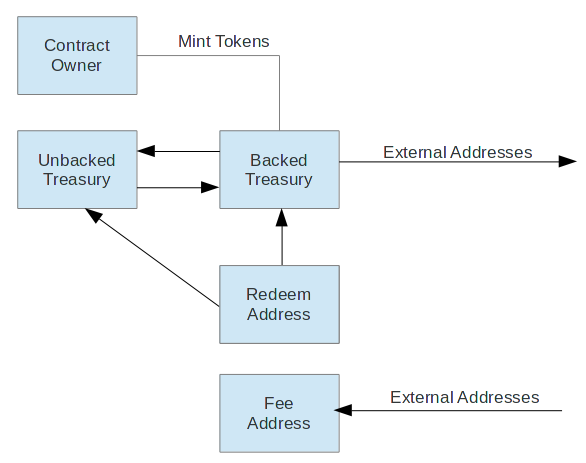
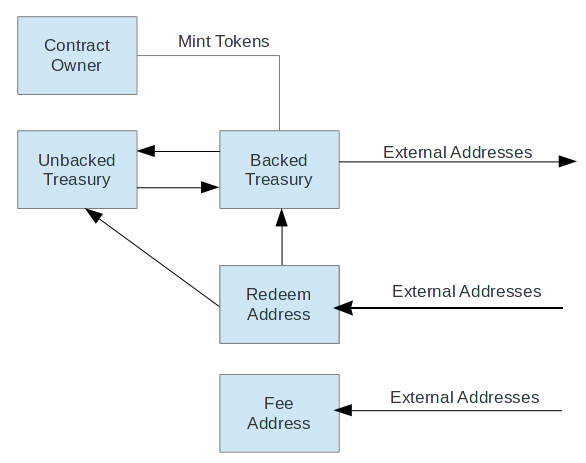
Updates to documentation and links to contract

Changed region(s): [[0.6451, 0.6048, 0.9215, 0.6652], [0.5836, 0.635, 0.6143, 0.6955]]

diff --git a/TOKEN_OVERVIEW.md b/TOKEN_OVERVIEW.md
@@ -1,8 +1,18 @@
 # Token Description
 
-The CACHE Gold Token (CGT) is an ERC-20 compatible token in which 1 token represents 1 gram of pure physical gold. All gold tokens minted are backed by physical gold held in reserves at participating fully audited vaults and may be redeemed for physical gold.
+The [CACHE Gold Token (CGT)](https://cache.gold) is an ERC-20 compatible token in which 1 token represents 1 gram of pure gold. All gold tokens minted are backed by unencumbered gold held in reserves at participating fully audited vaults and may be redeemed for physical delivery or can be sold for fiat currency. Gold parcel tracking is performed through [GramChain](https://www.gramchain.net/) and all available bars currently locked and available for redemption can be view in the [GramChain Explorer](https://explorer.gramchain.net/).
 
 While this token inherits the ERC-20 interface, there are extra properties of the token that are non-standard. In particular, the token has the ability to charge a storage fee that accrues over time as the token is held and a transfer fee that is paid when tokens are transferred from one address to another. These fees are paid in the native token itself ("in kind"), and are separate from the transaction fees paid in ETH when transacting on the Ethereum network. These fees are collected automatically whenever token holders transact.
+
+### Quick Overview
+
+* Symbol: `CGT`
+* Name: `CACHE Gold`
+* Decimals: `8`
+* Mainnet Contract Address: [0xF5238462E7235c7B62811567E63Dd17d12C2EAA0](https://etherscan.io/token/0xF5238462E7235c7B62811567E63Dd17d12C2EAA0)
+* Ropsten Contract Address: [0xa3872B300E97179E414D442b8Eef1862f641ED0e](https://ropsten.etherscan.io/token/0xa3872B300E97179E414D442b8Eef1862f641ED0e)
+* Suggested gasLimit for `transfer`: 200,000
+* Typical gas used for `trasfer`: 75,000 - 150,000
 
 ### Fee Overview
 
@@ -10,14 +20,14 @@ Please read the [Fees Guide](./FEES.md) for a detailed overview of the storage a
 
 ### Internal Addresses
 
-There are 6 addresses associated with the contract that have the special status as CACHE "internal" addresses. These addresses are not subject to storage or transfer fees.
+There are 6 addresses associated with the CACHE Gold contract that have the special status as CACHE internal addresses. These addresses are not subject to storage or transfer fees.
 
-1.  Owner Address : The address owning the CACHE Gold Token contract and the only account able to mint tokens and perform other administrative functions. This is a MultiSig address so that tokens can only be minted pending group approval.
-2.  Backed Treasury Address : The backed treasury is where all tokens are minted to and where tokens enter circulation. For tokens to be minted, an equivalent amount of gold must to be locked and unencumbered in a participating audited vault account, and the Locked Gold Oracle must be updated with this amount. The Backed Treasury is also a MultiSig address so transfers to external addresses cannot occur without group approval.
-3.  Unbacked Treasury Address : The unbacked treasury is where tokens exit circulation. When tokens are redeemed for physical gold bars, the tokens will be moved to this address.
-4.  Fee Address : The address where storage and transfer fees for external accounts are collected. This is also a MultiSig address so no single party has the ability transfer collected fees.
-5.  Storage Fee Enforcer : This address is able to force paying storage fees or inactive fees on inactive accounts.
-6.  Redeem Address: The address tokens must be sent to when redeeming tokens for physical gold. CACHE will use a KYC process to whitelist accounts that send to this address and monitor deposits for redemption of physical gold bars.
+1. [CACHE Owner](https://etherscan.io/address/0x3AB9c31148789570f51180a3eF7107E16c4B234c) : A Multi-Sig address owning the CACHE Gold Token contract and the only account able to mint tokens and perform other administrative functions, such as changing the transfer fee. This address is not meant to hold CACHE tokens.
+2.  [Backed Treasury](https://etherscan.io/address/0x6522B05FE48d274f14559E0391BE3675E6A1AC91) : A Multi-Sig address where all tokens are minted and enter circulation. For tokens to be minted, an equivalent amount of gold must to be locked and unencumbered in a participating audited vault accounts, and the [Locked Gold Oracle](https://etherscan.io/address/0x5b7820E62778C7317403D892f6501DD816F82730) must be updated with this amount.
+3.  [Unbacked Treasury](https://etherscan.io/address/0xD4033ea2eC53A26d6295f6f375D5C6afBe788660) : Address where tokens exit circulation. When tokens are redeemed for physical gold bars or unlocked from a vault, an equivalent amount of tokens will be moved to this address.
+4.  [Fee Address](https://etherscan.io/address/0x7ea9b52e9f8673f3e22b4eec2c4c7a7e2d1b6636) : A Multi-Sig address where storage and transfer fees for external accounts are collected.
+5.  [Storage Fee Enforcer](https://etherscan.io/address/0x8dCfA60A1fB2429a7AFc0266523F1BF7FBF42a1A) : An address authorized to force paying owed fees on inactive accounts. This address is not meant to hold CACHE tokens.
+6.  [Redeem Address](https://etherscan.io/address/0xc8Bf2dBDe1d69d174fd40581f5177F684fA26eDa): The address tokens must be sent to when redeeming tokens for physical gold. CACHE uses a KYC process to whitelist accounts that send to this address and monitors deposits for redemption.
 
 #### Transfer Restrictions
 
@@ -25,21 +35,21 @@ For security reasons, some addresses are restricted from sending to external add
 
 ![Addresses](./img/addresses.png)
 
-The Redeem Address can only transfer to the Backed or Unbacked Treasury. This insures that if the private key is hacked, the hacker can only move the tokens to other addresses controlled by CACHE.
+* The Redeem Address can only transfer to the Backed or Unbacked Treasury. This insures that if the private key is compromised CACHE tokens can only be moved to other Multi-Sig addresses controlled by CACHE.
 
-The Unbacked Treasury can only receive tokens from the Backed Treasury or the Redeem Address. When tokens enter the Unbacked Treasury the `totalCirculation()` decreases, therefore we want to ensure only addresses controlled by CACHE can transfer there. The Unbacked Treasury can only transfer tokens to the Backed Treasury, and it is only allowed when the Locked Gold Oracle has sufficient supply to allow these tokens to re-enter circulation.
+* The Unbacked Treasury can only receive tokens from the Backed Treasury or the Redeem Address. When tokens enter the Unbacked Treasury the `totalCirculation()` decreases, therefore we want to ensure only addresses controlled by CACHE can transfer there. The Unbacked Treasury can only transfer tokens to the Backed Treasury, and it is only allowed when the Locked Gold Oracle has sufficient supply to allow these tokens to re-enter circulation.
 
 ### Minting and Locked Gold Oracle
 
-The contract keeps track of the the real world supply of locked gold via the Locked Gold Oracle contract. It's only function is to keep track of the amount of gold currently locked in participating vaults, and the CACHE contract can check this value when adding new tokens to circulation to ensure it does not exceed the limit. 
+The contract keeps track of the the real world supply of locked gold via the [Locked Gold Oracle](https://etherscan.io/address/0x5b7820E62778C7317403D892f6501DD816F82730) contract. It's only function is to keep track of the amount of gold currently locked in participating vaults as tracked by [GramChain](https://www.gramchain.net/), and the CACHE contract can check this value when adding new tokens to circulation to ensure it does not exceed the limit. 
 
 The number of tokens in circulation at any given time is:
 ```
-The total supply - balance of unbacked treasury
+Total Supply - Unbacked Treasury
 ```
-and it represented by the contract function `totalCirculation()`
+and it represented by the contract function [totalCirculation()](https://github.com/cache-token/cache-contract/blob/master/contracts/CacheGold.sol#L645-L647)
 
-When more gold is locked in the vault and the Locked Gold Oracle value is increased, the contract owner will call `addBackedTokens()` function to increase the circulating supply by a given amount. The function will first move tokens from the Unbacked Treasury balance to the Backed Treasury, and then mint any additional tokens if the Unbacked balance in insufficient to cover the total amount of tokens to add. 
+When more gold is locked in participating vaults and the Locked Gold Oracle value is increased, the contract owner can propose the [addBackedTokens()](https://github.com/cache-token/cache-contract/blob/master/contracts/CacheGold.sol#L268) function to increase the circulating supply by a given amount. The function will first move tokens from the Unbacked Treasury balance to the Backed Treasury, and then mint any additional tokens if the Unbacked balance in insufficient to cover the total amount of tokens to add. 
 
 Similarly, if we want to reduce the circulating supply, tokens must be moved to the Unbacked Treasury (which is restricted from transferring tokens to external addresses), and then the Locked Gold Oracle can be reduced by an equivalent amount.
 

diff --git a/FEES.md b/FEES.md
@@ -10,7 +10,7 @@ The storage fee can be paid in three ways:
 
 1.  Transfering tokens to another address.
 2.  Transfering any amount of tokens to same address (i.e. the sender and receiver address are identical).
-3.  Making a transaction to call the contract's [payStorageFee()](https://github.com/cache-token/cache-contract/blob/master/contracts/CacheGold.sol#L304) function.
+3.  Making a transaction to call the contract's [payStorageFee()](https://github.com/cache-token/cache-contract/blob/master/contracts/CacheGold.sol#L307) function.
 
 When sending tokens to another address via the ERC-20 `transfer()` function, any accrued storage fees will automatically be collected. **NOTE:** If the receiving address has a storage fee balance due, the storage fee will automatically be deducted from this address as well (both sender and receiver pay). In this way, storage fees are automatically collected whenever a token holder transacts. For most cases, token holders do not have to worry about paying their fees, it will happen automatically whenever they send or receive CACHE Gold Tokens.
 
@@ -37,27 +37,46 @@ function calcStorageFee(balance, days_passed) {
 ```
 
 #### Storage Fee Grace Period
-The contract can set a configurable grace period before storage fees begin to accrue on an account. The current grace period is avaliable via the contract function `storageFeeGracePeriodDays()`. The grace period is stored per address, so that if the global grace period changes while in effect for an address, it's grace period can be retroactively honored. The grace period should only be valid once per address. That is, if an account's grace period has expired, receiving more tokens on the address will not restart the grace period.
+The contract can set a configurable grace period before storage fees begin to accrue on an account. The current grace period is avaliable via the contract function [storageFeeGracePeriodDays()](https://github.com/cache-token/cache-contract/blob/master/contracts/CacheGold.sol#L442). The grace period is stored per address, so that if the global grace period changes while in effect for an address, it's grace period can be retroactively honored. The grace period should only be valid once per address. That is, if an account's grace period has expired, receiving more tokens on the address will not restart the grace period.
 
 #### Force Collecting Fees
 If it has been more than 365 days since storage fees were last paid on a particular address, the contract owner has the option to force collecting accrued storage fees on these inactive accounts.
 
 #### Inactive Fee
-The contract also implements an inactive fee. If an address has not interacted with the contract (originated a transaction to the contract) for 3 or more years, the account may be flagged as "inactive". When it is marked inactive, the owed storage fees are deducted and the balance after deducting storage fees is taken as a snapshot. A yearly inactive fee of 50 basis points (0.5%) of the snapshot balance or 1 token, whichever is greater, is set on the account. 
+The contract also implements an inactive fee. If an address has not interacted with the contract (originated a transaction to the contract) for 3 or more years, the account may be flagged as "inactive". When it is marked inactive, the owed storage fees are deducted and the balance after deducting storage fees is taken as a snapshot. A yearly inactive fee of 50 basis points (0.5%) of the snapshot balance _or_ 1 token, _whichever is greater_, is set on the account. 
 
 For example, if an account has been inactive for 3 years, and has a balance of 1000 tokens, without ever having paid storage fees.
+
+It would owe
 ```
-It would owe 1000 * 0.0025 * 3 = 7.5 tokens in storage fees.
-After this is deducted the remaining balance at 3 years is: 1000 - 7.5 = 992.5 which becomes the snapshot balance
-The yearly inactive fee on 992.5 tokens = 992.5 * 0.005 = 4.9625 tokens
+1000 * 0.0025 * 3 = 7.5
+```
+tokens in storage fees.
+
+After this is deducted the remaining balance at 3 years is: 
+```
+1000 - 7.5 = 992.5
+```
+which becomes the snapshot balance.
+
+The yearly inactive fee on 992.5 tokens is
+```
+992.5 * 0.005 = 4.9625 tokens
 ```
 
-Similarly, if the account has been inactive for 3 years, and only had a balance of 5 tokens.
+Similarly, if the account has been inactive for 3 years, and only had a balance of 5 tokens. It would owe...
 ```
-It would owe 5 * 0.0025 * 3 = 0.0375 tokens in storage fees.
-After this is deducted the remaining balance at 3 years is: 5 - 0.0375 = 4.9625, which becomes the snapshot balance
-The yearly inactive fee on a snapshot balance of 4.9625 tokens is 1 token per year, as 1 token > 50 basis points on 4.9625 tokens.
+5 * 0.0025 * 3 = 0.0375
 ```
+tokens in storage fees.
+
+After this is deducted the remaining balance at 3 years is...
+```
+5 - 0.0375 = 4.9625
+```
+which becomes the snapshot balance
+
+The yearly inactive fee on a snapshot balance of `4.9625` tokens is `1 token` per year, as `1 token > 50 basis points on 4.9625 tokens`.
 
 The contract owner has the ability to force collection of these inactive fees on a prorated basis at any point in time on inactive accounts.
 
@@ -83,7 +102,7 @@ Note that transferring tokens to the same address incurs no transfer fee. This i
 ## Important Note On Balance Representation
 
 ### Balance Decay
-The CACHE contract is unique in that it will show the user balance `balanceOf()` not as it is currently stored in the contract storage, but the balance taking into account owed fees. Token balances appear to decay over time, even if the accrued fees have not yet been collected. This is a deliberate design choice to allow compatibility with existing wallets so that choosing to "Send Entire Balance" or "Maximum" as shown by `balanceOf()`, will not fail due to insufficient balance after fees. The contract implements an additional function `balanceOfNoFees()`, which is the typical ERC-20 implementation that shows the contract storage value of the current balance, without taking owed fees into consideration.
+The CACHE contract is unique in that it will show the user balance [balanceOf()](https://github.com/cache-token/cache-contract/blob/master/contracts/CacheGold.sol#L490-L492) not as it is currently stored in the contract storage, but the balance taking into account owed fees. Token balances appear to decay over time, even if the accrued fees have not yet been collected. This is a deliberate design choice to allow compatibility with existing wallets so that choosing to "Send Entire Balance" or "Maximum" as shown by `balanceOf()`, will not fail due to insufficient balance after fees. The contract implements an additional function [balanceOfNoFees()](https://github.com/cache-token/cache-contract/blob/master/contracts/CacheGold.sol#L501-L503), which is the typical ERC-20 implementation that shows the contract storage value of the current balance, without taking owed fees into consideration.
 
 ### Transfer Fee Included
 The transfer fee also adds another modification to the shown balance. For our design, we desire for transactions to not deduct the transfer fee from the amount sent, while also desiring for the 'Send Entire Balance' on existing wallets to still work. In order to acheive this goal, the `balanceOf` functions shows the maximum amount that can be sent, taking into account the transfer fee. For instance if a user, Alice, received 10 tokens, has no storage fees due, and the transfer fee is 10 basis points, the maximum she could send is:
@@ -92,8 +111,10 @@ The transfer fee also adds another modification to the shown balance. For our de
 ```
 Because sending 9.99000999 incurs a fee of 0.00999001, and 
 ```
-9.99000999 + 0.00999001 = 10, the amount received
+9.99000999 + 0.00999001 = 10
 ```
+the amount received.
+
 So `balanceOf()` will show `9.99000999` instead of `10.00000000` and `balanceOfNoFees()` would show the expected `10.00000000` (the amount received).
 
 In this sense, the balance shown is already 'paying for the next hop' in transfer fees. If Alice then sent `9.99000999` tokens to Bob, a `Transfer` event would be emitted would show the amount sent as `9.99000999`. If Bob then checked his `balanceOf()`, it would show:

diff --git a/INTEGRATION_GUIDE.md b/INTEGRATION_GUIDE.md
@@ -17,15 +17,15 @@ Please fully read the [Fees Guide](./FEES.md) to fully understand the nature of 
 
 ## Handling Transfer Fees
 
-Each transfer of CACHE tokens incurs a transfer fee of 10 basis points (0.10%), which is separate from the amount being sent. That is, if a user is holding 10 CGT and sends 5 CGT to the exchange, the exchange will receive 5 CGT and 5 * 0.001 = 0.005 GCT will be send to the CACHE fee collection address, with a total of 5.005 tokens deducted from the user's wallet.
+Each transfer of CACHE tokens incurs a transfer fee of 10 basis points (0.10%), which is separate from the amount being sent. That is, if a user is holding 10 CGT and sends 5 CGT to the exchange, the exchange will receive 5 CGT and 5 * 0.001 = 0.005 GCT will be sent to the CACHE fee collection address, with a total of 5.005 tokens deducted from the user's wallet.
 
 If the exchange then wants to transfers these 5 tokens to another address, like cold storage or a liquidity pool, the maximum amount available to send is:
 
 ```
 5 / 1.001 = 4.99500500
-
+```
 because
-
+```
 4.99500500 + (4.99500500 * 0.0001) [transfer fee] = 5 tokens
 ```
 
@@ -44,7 +44,7 @@ Similarly, the exchange can expect to incur a fee of 0.1% on amounts withdrawn t
 
 ### Note on Transfer Fee Changes
 
-While the default transfer fee is 10 basis points, CACHE has the ability to modify the transfer fee to anything between 0 and 10 basis points (whole numbers only). The current trasfer fee is readable via the [transferFeeBasisPoints()](https://github.com/cache-token/cache-contract/blob/master/contracts/CacheGold.sol#L565) contract function. 
+While the default transfer fee is 10 basis points, CACHE has the ability to modify the transfer fee to anything between 0 and 10 basis points (whole numbers only). The current trasfer fee is readable via the [transferFeeBasisPoints()](https://github.com/cache-token/cache-contract/blob/master/contracts/CacheGold.sol#L578) contract function. 
 
 In the event that the transfer fee is lowered in the future (which would be publicly announced in advance), the exchange may want to also lower any fees passed onto the users.
 
@@ -62,13 +62,13 @@ The `balanceOf()` amount will appear to decay over time for each day the token i
 balance * (1 / 365.0) * 0.0025 = balance * 0.000006849 in fees per day
 ```
 
-The contract also exposes the public function [storageFee()](https://github.com/cache-token/cache-contract/blob/master/contracts/CacheGold.sol#L781) to calculate this directly from the contract.
+The contract also exposes the public function [storageFee()](https://github.com/cache-token/cache-contract/blob/master/contracts/CacheGold.sol#L818) to calculate this directly from the contract.
 
 ### Grace Period
 
-CACHE has the ability to set a global grace period for storage fees. That is, a time period before storage fees begin accruing after an address first receives tokens. This is exposed via the public contract function [storageFeeGracePeriodDays()](https://github.com/cache-token/cache-contract/blob/master/contracts/CacheGold.sol#L558)
+CACHE has the ability to set a global grace period for storage fees. That is, a time period before storage fees begin accruing after an address first receives tokens. This is exposed via the public contract function [storageFeeGracePeriodDays()](https://github.com/cache-token/cache-contract/blob/master/contracts/CacheGold.sol#L571)
 
-If a grace period is in effect, an exchange may chose to delay transferring a user deposit to cold storage until the grace period expires.
+If a grace period is in effect, an exchange can chose to delay transferring a user deposit to cold storage up to the grace period.
 
 ### Suggested Implementation
 
@@ -162,12 +162,12 @@ All three methods will update the timestamp for the account's last activity, and
 
 The contract exposes several functions to be able to pull detailed information about owed fees, addresses activity, days since storage fees have been paid, etc. 
 
-* [balanceOf(address owner) view returns (uint256)](https://github.com/cache-token/cache-contract/blob/master/contracts/CacheGold.sol#L477) : Returns the current balance on the account including all accrued fees. This is synonamous with the "the maximum amount an account could send to another address".
-* [balanceOfNoFees(address owner) view returns (uint256)](https://github.com/cache-token/cache-contract/blob/master/contracts/CacheGold.sol#L488) : Returns the balance stored in contract storage, not accounting for any accrued fees.
-* [daysSincePaidStorageFee(address account) view returns(uint)](https://github.com/cache-token/cache-contract/blob/master/contracts/CacheGold.sol#L613) : Will return how many days since an address has last paid storage fees.
-* [daysSinceActivity(address account) view returns(uint)](https://github.com/cache-token/cache-contract/blob/master/contracts/CacheGold.sol#L626) : Will return how many days since the address last originated a transaction to the contract.
-* [calcOwedFees(address account) view returns(uint256)](https://github.com/cache-token/cache-contract/blob/master/contracts/CacheGold.sol#L638) : Will return the current fees owed on the address.
-* [calcTransferFee(address account, uint256 value) view returns(uint256)](https://github.com/cache-token/cache-contract/blob/master/contracts/CacheGold.sol#L763) : Will return the expected transfer fee on `account` sending `value` tokens.
-* [storageFee(uint256 balance, uint daysSinceStoragePaid) pure returns(uint256)](https://github.com/cache-token/cache-contract/blob/master/contracts/CacheGold.sol#L781) : Will return the expected storage fee on `balance` for `daysSinceStoragePaid` days
-* [storageFeeGracePeriodDays() view returns(uint)](https://github.com/cache-token/cache-contract/blob/master/contracts/CacheGold.sol#L558) : The current storage fee grace period for addresses receiving tokens for the first time.
+* [balanceOf(address owner) view returns (uint256)](https://github.com/cache-token/cache-contract/blob/master/contracts/CacheGold.sol#L490) : Returns the current balance on the account including all accrued fees. This is synonamous with the "the maximum amount an account could send to another address".
+* [balanceOfNoFees(address owner) view returns (uint256)](https://github.com/cache-token/cache-contract/blob/master/contracts/CacheGold.sol#L501) : Returns the balance stored in contract storage, not accounting for any accrued fees.
+* [daysSincePaidStorageFee(address account) view returns(uint)](https://github.com/cache-token/cache-contract/blob/master/contracts/CacheGold.sol#L654) : Will return how many days since an address has last paid storage fees.
+* [daysSinceActivity(address account) view returns(uint)](https://github.com/cache-token/cache-contract/blob/master/contracts/CacheGold.sol#L667) : Will return how many days since the address last originated a transaction to the contract.
+* [calcOwedFees(address account) view returns(uint256)](https://github.com/cache-token/cache-contract/blob/master/contracts/CacheGold.sol#L679) : Will return the current fees owed on the address.
+* [calcTransferFee(address account, uint256 value) view returns(uint256)](https://github.com/cache-token/cache-contract/blob/master/contracts/CacheGold.sol#L800) : Will return the expected transfer fee on `account` sending `value` tokens.
+* [storageFee(uint256 balance, uint daysSinceStoragePaid) pure returns(uint256)](https://github.com/cache-token/cache-contract/blob/master/contracts/CacheGold.sol#L818) : Will return the expected storage fee on `balance` for `daysSinceStoragePaid` days
+* [storageFeeGracePeriodDays() view returns(uint)](https://github.com/cache-token/cache-contract/blob/master/contracts/CacheGold.sol#L571) : The current storage fee grace period for addresses receiving tokens for the first time.
 * [transferFeeBasisPoints() view returns(uint)](https://github.com/cache-token/cache-contract/blob/master/contracts/CacheGold.sol#L565) : The current transfer fee in basis points. Value will be an integer between 0-10 inclusive.

diff --git a/README.md b/README.md
@@ -1,8 +1,9 @@
 # Documentation Related to the CACHE Gold Token
 
-The [CACHE Gold Token](https://github.com/cache-token/cache-contract)
+The [CACHE Gold Token](https://github.com/cache-token/cache-contract) 
 
+* [CACHE Gold Website](https://cache.gold)
 * [Token Overview](./TOKEN_OVERVIEW.md)
-* [Fee Guide](./FEES.md)
+* [Detailed Fee Guide](./FEES.md)
 * [Exchange Integration Guide](./INTEGRATION_GUIDE.md)
 * [Copy of our Contract Audit](./CACHE_Gold_Audit_Zerotrust.pdf)
